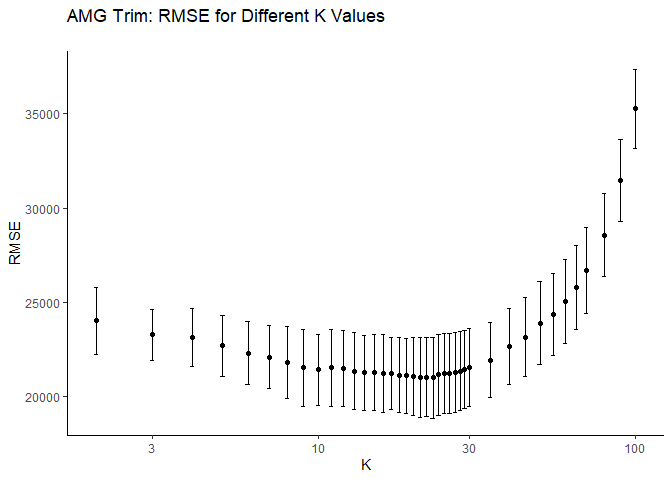
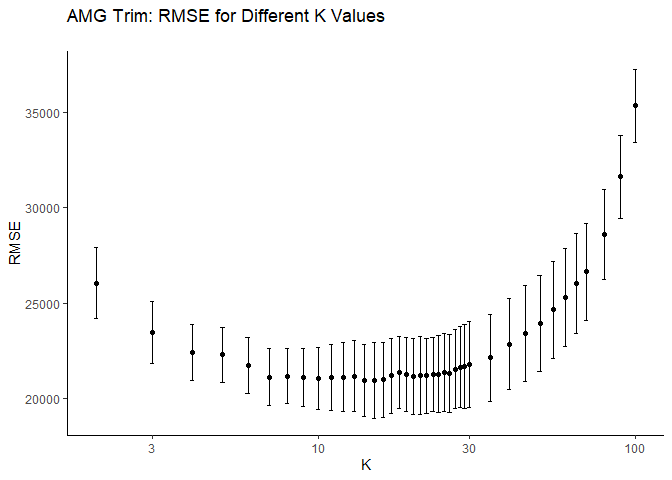
.

diff --git a/Harrison/HW1_P4.md b/Harrison/HW1_P4.md
@@ -2,22 +2,22 @@ Problem 4
 ---------
 
 In this problem, we want to find the optimal value of K in our KNN
-regressions for each trim. In the chart of RMSE versus K for each trim
-there is an average RMSE mapped with one standard error bar. In each
-case, we use the “1SE” rule to determine our optimal K. That is we chose
-the largest K value that was within one standard error of the lowest
-average RMSE observed. Doing this with the 350 trims yields the
-following results.
+regressions for each trim. We take the cross validation approach using 5
+folds. In the chart of RMSE versus K for each trim there is an average
+RMSE mapped with one standard error bar. In each case, we use the “1SE”
+rule to determine our optimal K. That is we chose the largest K value
+that was within one standard error of the lowest average RMSE observed.
+Doing this with the 350 trims yields the following results.
 
 ![](HW1_P4_files/figure-markdown_strict/unnamed-chunk-2-1.png)![](HW1_P4_files/figure-markdown_strict/unnamed-chunk-2-2.png)
 
-From the 350 Trim chart of RMSE versus K, we see that the RMSE bottoms
-out at 70, as such the line of fit against the test data is for that K
-value. Similarly, we can find an optimal K value for the AMG trim cars.
+From the 350 Trim chart of RMSE versus K, we see that the optimal K is
+60, as such the line of fit against the test data is for that K value.
+Similarly, we can find an optimal K value for the AMG trim cars.
 
 ![](HW1_P4_files/figure-markdown_strict/unnamed-chunk-3-1.png)![](HW1_P4_files/figure-markdown_strict/unnamed-chunk-3-2.png)
 
-We see that the 1SE approach yields an optimal k=40. We observe higher
+We see that the 1SE approach yields an optimal k=35. We observe higher
 optimal K values for the 350 trim as compared to the AMG. This is due to
 the fact that the number of observations for the AMG trim is much lower
 than that of the 350. Thus to earn a lower RMSE, we need a more flexible
